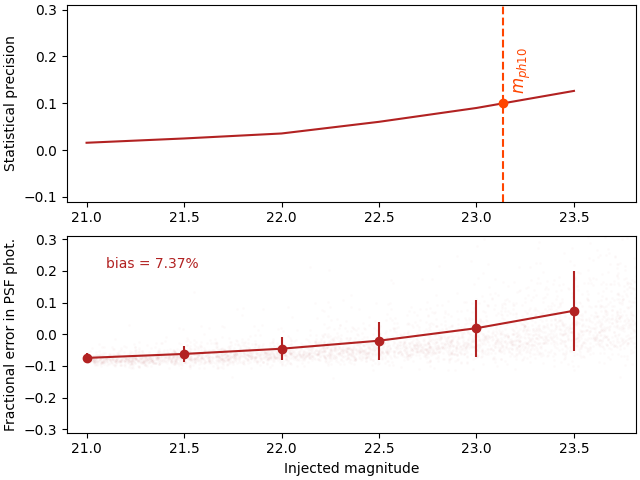
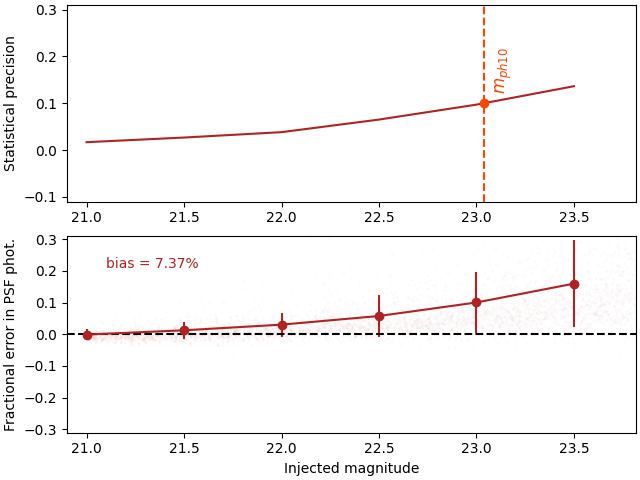
Updated pipeline evaluation documentation and plots for 20240927 H158 SFFT and ZOGY comparison

Changed region(s): [[0.125, 0.5625, 0.9062, 0.7812], [0.125, 0.0938, 0.9062, 0.3125]]

diff --git a/docs/source/analyses/pipeline_evaluation_metrics/openuniv_eval.rst b/docs/source/analyses/pipeline_evaluation_metrics/openuniv_eval.rst
@@ -56,13 +56,17 @@ Filtering results:
 ======    ======    ======    =========    =======    ==============    ==============    ==============    ==============    ==============    ==============
 Method    Filter    Images    Unmatched    Matched    Unmatched1        Matched1          Unmatched2        Matched2          Unmatched3        Matched3
 ======    ======    ======    =========    =======    ==============    ==============    ==============    ==============    ==============    ==============
-ZOGY      H158      1142      2307488      63888      470970 (20.4%)    52409 (95.2%)     141714 (20.4%)    409852 (17.8%)    271239 (11.7%)    58625 (91.8%)
+ZOGY      H158      1142      2307488      63888      470970 (20.4%)    60845 (95.2%)     409852 (17.8%)    60431 (94.6%)     271239 (11.8%)    58625 (91.8%)
+SFFT      H158      1142      2935660      74690      148362  (5.1%)    66434 (89.0%)     137408  (4.7%)    66000  (88.4%)    30922   (1.1%)    63896 (85.6%)
+Naive     H158      1142      537611       58531      187999 (35.0%)    57558 (98.3%)     168774 (31.4%)    57384  (98.0%)    106193 (19.7%)    56005 (95.7%)
 ======    ======    ======    =========    =======    ==============    ==============    ==============    ==============    ==============    ==============
 
 .. toctree::
     :maxdepth: 1
 
     filtering_20250927_ZOGY_H158.rst
+    filtering_20250927_SFFT_H158.rst
+    filtering_20250927_Naive_H158.rst
 
 Evaluation of Figures of Merit
 ====================================
@@ -75,13 +79,19 @@ for the off-nuclear and nuclear source groups, respectively, in the FOM calculat
 are :math:`w_{\mathrm{th}} = 1.0`, :math:`w_{80} = 0.8`, :math:`w_{20} = 0.6`, :math:`w_{5\sigma} = 0.3`, and :math:`w_{\mathrm{ph}10} = 0.2`.
 We adopt ``fpratetol`` :math:`=10` as the maximum acceptable false-positive rate per image. 
 
-======    ======    ========    =======================    ==============    ==============    ===================    =========================    =====
+======    ======    ========    =======================    ==============    ==============    ===================    =========================    ==========
 Method    Filter    Group       :math:`m_{\mathrm{th}}`    :math:`m_{80}`    :math:`m_{20}`    :math:`m_{5\sigma}`    :math:`m_{\mathrm{ph}10}`    FOM
-======    ======    ========    =======================    ==============    ==============    ===================    =========================    =====
+======    ======    ========    =======================    ==============    ==============    ===================    =========================    ==========
 ZOGY      H158      Off-Nuc.    25.13                      23.79             25.24             26.77                  24.19                        24.89
-ZOGY      H158      Nuc.        23.52                      24.27             24.69             24.27                  23.14                        24.28
-ZOGY      H158      Overall     24.60                      23.95             25.06             25.94                  23.84                        24.69
-======    ======    ========    =======================    ==============    ==============    ===================    =========================    =====
+ZOGY      H158      Nuc.        23.52                      24.27             24.69             26.77                  23.04                        24.27
+SFFT      H158      Off-Nuc.    25.38                      24.44             25.37             26.78                  24.73                        25.22
+SFFT      H158      Nuc.        26.02                      25.11             26.04             26.78                  24.02                        25.71
+Naive     H158      Off-Nuc.    25.84                      23.85             25.25             26.77                  24.02                        25.16
+Naive     H158      Nuc.        23.12                      23.91             24.52             26.77                  22.88                        24.77
+ZOGY      H158      Overall     24.60                      23.95             25.06             26.77                  23.81                        **24.68**
+SFFT      H158      Overall     25.59                      24.66             25.59             26.78                  24.49                        **25.38**
+Naive     H158      Overall     24.93                      23.88             25.01             26.77                  23.64                        **24.57**
+======    ======    ========    =======================    ==============    ==============    ===================    =========================    ==========
 
 .. note::
    This analysis is preliminary and meant to illustrate the procedure for evaluation the performance of the RAPID pipeline
@@ -92,4 +102,5 @@ ZOGY      H158      Overall     24.60                      23.95             25.
     :maxdepth: 1
 
     FOM_20250927_ZOGY_H158.rst
-    
+    FOM_20250927_SFFT_H158.rst
+

diff --git a/docs/source/analyses/pipeline_evaluation_metrics/pipeline_evaluation_metrics.rst b/docs/source/analyses/pipeline_evaluation_metrics/pipeline_evaluation_metrics.rst
@@ -193,7 +193,7 @@ Here we describe the steps to evaluate the pipeline and calculate each term of t
     b. :math:`m_{80}` and :math:`m_{20}`: The recovery completess (fraction of injected sources in the sub-group of interest successfully recovered) 
        is computed in :math:`\Delta m = 0.5` bins of injected magnitude for all TP candidates passing :math:`SNR \geq` ``snrfpthres``. 
        The calculations accounts for the number of injected sources that lacked coverage in the reference image or fell within ``diffimedgetol`` 
-       of any image boundary. `m_{80}` and :math:`m_{20}` are computed via linear interpolation of the completness curve at 80% and 20% completeness, 
+       of any image boundary. :math:`m_{80}` and :math:`m_{20}` are computed via linear interpolation of the completness curve at 80% and 20% completeness, 
        respectively.
 
     c. :math:`m_{5\sigma}`: For each difference image, :math:`6\sigma`-clipped standard deviation of all pixel values is calculated as a 
